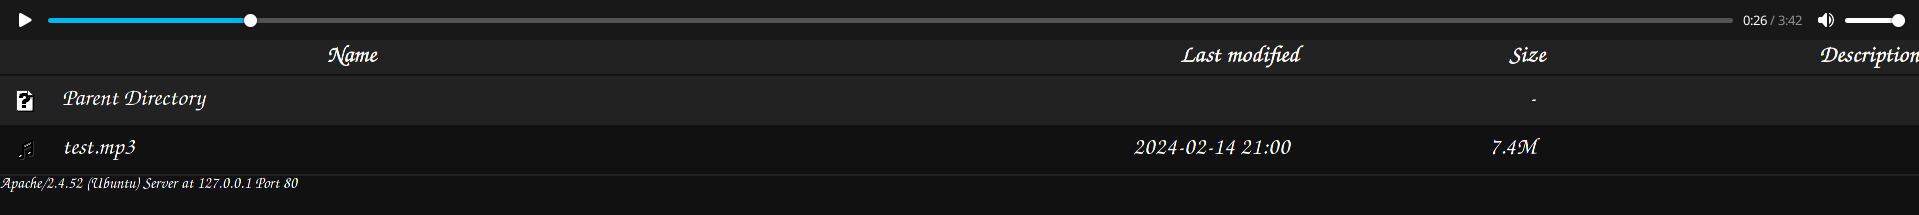
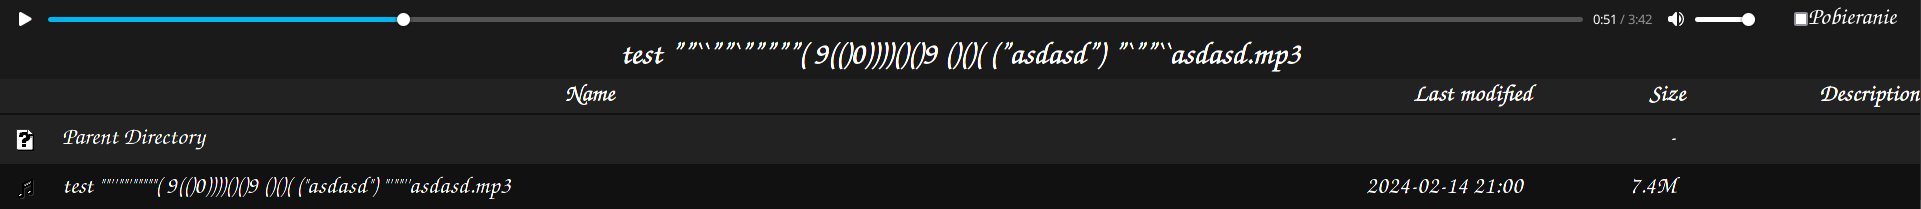
Add files via upload

diff --git a/odtwarzacz.html b/odtwarzacz.html
@@ -1,0 +1,58 @@
+<!DOCTYPE html>
+<html lang="pl_PL">
+<head>
+    <meta charset="UTF-8">
+    <meta name="viewport" content="width=device-width, initial-scale=1.0">
+    <link rel="stylesheet" href="/index-styl/styl.css">
+    <script>
+        function zmiana(){
+            if(document.getElementById('pobieranie').checked){
+                pobierz()
+                document.getElementById('tytul').setAttribute("class", "niewidoczne")
+            } else{
+                odtwarzacz();
+                document.getElementById('tytul').setAttribute("class", "widoczne")
+
+            }
+        }
+        function odtwarzacz(){
+            var linki = document.getElementsByTagName("a");
+            for(var i = 4; i<linki.length; i++){
+                var nazwaLinku = linki[i].innerText;
+                if(nazwaLinku[nazwaLinku.length-1]=='3'){
+                    nazwaLinkuCzysta = nazwaLinku.replaceAll("'", "`");
+                    nazwaLinku = nazwaLinkuCzysta;
+                    nazwaLinkuCzysta = nazwaLinku.replaceAll('"', '”');
+                    
+                    console.log(nazwaLinkuCzysta+" to muzyka");
+                    linki[i].setAttribute("target", "odtwarzacz-iframe")
+                    linki[i].removeAttribute("download");
+                    var coDoSkryptu = "logujNazwe('"+nazwaLinkuCzysta+"')";
+                    linki[i].setAttribute("onclick", coDoSkryptu)
+                }
+            }
+        }
+        function pobierz(){
+            var linki = document.getElementsByTagName("a");
+            for(var i=4; i<linki.length; i++){
+                linki[i].setAttribute("download", "");
+                linki[i].setAttribute("target", "_blank")
+
+            }
+        }
+
+        function logujNazwe(co){
+            console.log("Kliknieto: "+co);
+            if(document.getElementById('pobieranie').checked != true){
+                document.getElementById('tytul').setAttribute("class", "widoczne");
+                document.getElementById('tytul').innerText = co
+
+            }
+        }
+    </script>
+</head>
+<body onload="odtwarzacz()">
+    <div class="odtwarzacz-spacer"></div>
+    <iframe src="" id="odtwarzacz-iframe" name="odtwarzacz-iframe"></iframe>
+    <div class="selektor"><table><tr><td><label for="pobieranie"><input name="pobieranie" onclick="zmiana()" id="pobieranie" type="checkbox" autocomplete="off">Pobieranie</label></td></tr></table></div>
+    <h1 id="tytul" class="niewidoczne">asdsad</h1>

diff --git a/styl.css b/styl.css
@@ -1,0 +1,97 @@
+body{
+    background-color: #1a1a1a;
+    color: #fff !important;
+    margin: 0;
+    border: 0;
+    padding: 0;
+    font-family: cursive !important;
+}
+a{
+    color: #fff !important;
+    text-decoration: none;
+}
+hr{
+    display: none;
+}
+th:not(:nth-of-type(2)){
+    text-align: right
+}
+table{
+    border-collapse: collapse;
+    font-size: 24px;
+    width: 100%
+}
+table tr td{
+    padding: 10px
+}
+table tr td:first-of-type{
+    width: 32px;
+    vertical-align:middle;
+    padding-bottom: 0px;
+    text-align: center;
+    align-items: center;
+}
+tr:nth-child(2n+1){
+    background-color: #222
+}
+tr:nth-child(2n){
+    background-color: #111
+}
+iframe{
+    border: 0px solid #0000;
+    height: 40px;
+    width: calc(100% - 150px);
+    position: fixed;
+    top: 0;
+    left: 0;
+    background-color: #1a1a1a;
+    z-index: 5;
+
+}
+div.odtwarzacz-spacer{
+    display: block;
+    height: 80px;
+    width: 100%;
+}
+div.selektor{
+    height: 40px;
+    width: 150px;
+    position: fixed;
+    top:0;
+    right:0;
+}
+.selektor{
+    background-color: #1a1a1a;
+    z-index: 5;
+}
+.selektor table{
+    height: 40px
+}
+.selektor table, .selektor table *{
+    background-color: #0000 !important;
+    margin: 0;
+    border: 0;
+    padding: 0;
+    user-select: none;
+}
+h1{
+    background-color: #1a1a1a;
+    width: 100%;
+    color: #fff;
+    font-size: 32px;
+    margin: 0px;
+    text-align: center;
+    display: block;
+    position: fixed;
+    left: 0;
+    right:0;
+    transition: 300ms;
+}
+h1.widoczne{
+
+    top: 40px;
+
+}
+h1.niewidoczne{
+    top: -40px;
+}
